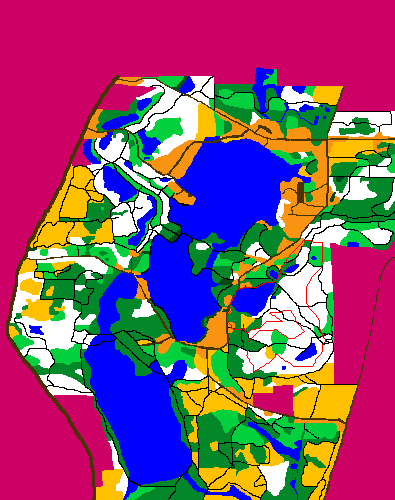
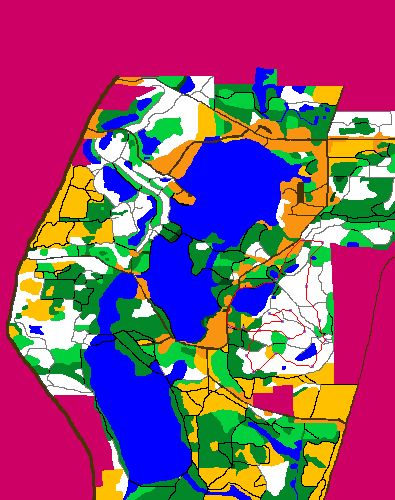
Finished but with comments

diff --git a/lab1/lab1.py b/lab1/lab1.py
@@ -1,11 +1,11 @@
 import queue
-from PIL import Image
-from PIL import ImageDraw
+from PIL import Image, ImageDraw
 import enum
 import sys
 import math
 
 
+# class of enums for terrain rgb values
 class Terrain(enum.Enum):
     Open_Land = (248, 148, 18, 255)
     Rough_Meadow = (255, 192, 0, 255)
@@ -19,13 +19,19 @@ class Terrain(enum.Enum):
     Out_of_Bounds = (205, 0, 101, 255)
     Ice = (217, 251, 255, 255)
     Mud = (173, 127, 0, 255)
+    Leaf_Trail = (122, 122, 122, 255)
+    Leaf_Road = (65, 65, 65, 255)
 
 
+# class of enums for constants used in the program
 class Constants(enum.Enum):
     xScale = 10.29
     yScale = 7.55
+    IceLimit = 7
+    MudLimit = 15
 
 
+# class Node for A* and BFS searching
 class Node:
 
     def __init__(self, parent=None, position=None):
@@ -78,12 +84,19 @@ def check_modifier(rgb_color):
     # same as ice
     elif rgb_color == Terrain.Mud.value:
         return 0.45
+    # there's annoying leaves on the road - 90%
+    elif rgb_color == Terrain.Leaf_Road.value:
+        return 0.9
+    # there's annoying leaves on the footpath - 80%
+    elif rgb_color == Terrain.Leaf_Trail.value:
+        return 0.8
     # out of bounds - 0%
     else:
         return 0.0
 
 
 # function to store elevation in a 2d array
+# stored in YX orientation
 def store_elevation(fp):
     wfile = open(fp, 'r')
     elevation = list()
@@ -111,11 +124,15 @@ def store_waypoints(fp):
 
 
 # function to add altercations to the map based on season
-def seasons(image, season, elevation, modifier):
+def seasons(image, season, elevation):
+    # no change for summer
     if season == "summer":
         return image
+
+    # draw module for the image
     draw = ImageDraw.Draw(image)
 
+    # 2d array of visited cells for BFS
     visited = list()
     for i in range(395):
         temp = list()
@@ -123,21 +140,29 @@ def seasons(image, season, elevation, modifier):
             temp.append(False)
         visited.append(temp)
 
+    # queue for BFS
     reached_nodes = queue.Queue()
 
+    # check every pixel
     for x in range(395):
         for y in range(500):
+            # if encountered, skip
             if visited[x][y]:
                 continue
+
             rgb = image.getpixel((x, y))
+
+            # winter BFS, search for land and find all water within 7 units
             if season == "winter":
                 if not check_modifier(rgb) == 0.3:
                     new_node = Node(None, (x, y))
                     new_node.distance = 0
                     reached_nodes.put(new_node)
                     visited[x][y] = True
+                    # Winter BFS
                     while not reached_nodes.empty():
                         s = reached_nodes.get()
+                        # check all possible children
                         for new_position in [(-1, 0), (0, 1), (1, 0), (0, -1)]:
 
                             xPos = new_position[0] + s.position[0]
@@ -155,7 +180,7 @@ def seasons(image, season, elevation, modifier):
                             if not check_modifier(rgb) == 0.3 or rgb == Terrain.Out_of_Bounds.value:
                                 continue
 
-                            if s.distance == 7:
+                            if s.distance == Constants.IceLimit.value:
                                 continue
 
                             new_node = Node(None, (xPos, yPos))
@@ -163,87 +188,104 @@ def seasons(image, season, elevation, modifier):
                             reached_nodes.put(new_node)
                             visited[xPos][yPos] = True
                             draw.point(new_node.position, fill=Terrain.Ice.value)
-
+            # During fall, find all path adjacent to easy forest and change it to leaf trail
             elif season == "fall":
                 if rgb == Terrain.Easy_Forest.value:
                     for new_position in [(-1, 0), (0, 1), (1, 0), (0, -1), (1, 1), (-1, -1), (-1, 1), (1, -1)]:
-
+                        # check x positions
                         xPos = new_position[0] + x
                         if xPos < 0 or xPos >= 395:
                             continue
-
+                        # check y positions
                         yPos = new_position[1] + y
                         if yPos < 0 or yPos >= 500:
                             continue
-
+                        # check if it is just another easy forest
                         rgb = image.getpixel((xPos, yPos))
                         if rgb == Terrain.Easy_Forest.value:
                             continue
-
-                        modifier[xPos][yPos] = 0.5
-
+                        # adjust the terrain for fallen leaves
+                        if rgb == Terrain.Foot_path.value:
+                            draw.point((xPos, yPos), fill=Terrain.Leaf_Trail.value)
+                        elif rgb == Terrain.Paved_Road.value:
+                            draw.point((xPos, yPos), fill=Terrain.Leaf_Road.value)
+            # spring BFS, search for water and find all land within 15 units with only a 1 in change of elevation
             elif season == "spring":
                 if check_modifier(rgb) == 0.3:
                     new_node = Node(None, (x, y))
                     new_node.distance = 0
                     reached_nodes.put(new_node)
                     visited[x][y] = True
+                    # spring BFS
                     while not reached_nodes.empty():
                         s = reached_nodes.get()
                         for new_position in [(-1, 0), (0, 1), (1, 0), (0, -1)]:
-
+                            # x bound check
                             xPos = new_position[0] + s.position[0]
                             if xPos < 0 or xPos >= 395:
                                 continue
-
+                            # y bound check
                             yPos = new_position[1] + s.position[1]
                             if yPos < 0 or yPos >= 500:
                                 continue
-
+                            # visited check
                             if visited[xPos][yPos]:
                                 continue
-
+                            # check for water or terrain
                             rgb = image.getpixel((xPos, yPos))
                             if check_modifier(rgb) == 0.3 or rgb == Terrain.Out_of_Bounds.value:
                                 continue
-
-                            if s.distance == 15:
+                            # check for max distance
+                            if s.distance == Constants.MudLimit.value:
                                 continue
-
+                            # check for change in elevation
                             if elevation[yPos][xPos] - elevation[s.position[1]][s.position[0]] > 1:
                                 continue
 
+                            # add cell to the queue and set it to mud
                             new_node = Node(None, (xPos, yPos))
                             new_node.distance = s.distance + 1
                             reached_nodes.put(new_node)
                             visited[xPos][yPos] = True
                             draw.point(new_node.position, fill=Terrain.Mud.value)
 
-    return image, modifier
+    return image
 
 
 # function to calculate the g cost for heuristic
-def calculate_g_cost(image, point1, point2, elevation, modifier):
+def calculate_g_cost(image, point1, point2, elevation):
+    # terrain modifiers
     rgb_one = image.getpixel((point1[0], point1[1]))
     rgb_two = image.getpixel((point2[0], point2[1]))
-    mod1 = check_modifier(rgb_one) * modifier[point1[0]][point1[1]]
-    mod2 = check_modifier(rgb_two) * modifier[point2[0]][point2[1]]
+    mod1 = check_modifier(rgb_one)
+    mod2 = check_modifier(rgb_two)
 
-    deltaX = Constants.xScale.value ** 2
-    deltaY = Constants.yScale.value ** 2
-    deltaZ = (elevation[point2[1]][point2[0]] - elevation[point1[1]][point1[0]]) ** 2
+    # change in x and y
+    deltaX = (Constants.xScale.value ** 2)
+    deltaY = (Constants.yScale.value ** 2)
+    temp = (elevation[point2[1]][point2[0]] - elevation[point1[1]][point1[0]])
+
+    # hill climbing scale, uphill or downhill change has a 20% effect on cost
+    hill_scale = 1.0
+    if temp < 0:
+        hill_scale = 1.2
+    elif temp > 0:
+        hill_scale = 0.8
+
+    # change in z
+    deltaZ = temp ** 2
 
     if point1[0] == point2[0]:
         temp = math.sqrt((deltaY + deltaZ)) / 2
-        return (temp / mod1) + (temp / mod2)
+        return ((temp / mod1) + (temp / mod2)) / hill_scale
 
     elif point1[1] == point2[1]:
         temp = math.sqrt((deltaX + deltaZ)) / 2
-        return (temp / mod1) + (temp / mod2)
+        return ((temp / mod1) + (temp / mod2)) / hill_scale
 
     else:
         temp = math.sqrt((deltaX + deltaY + deltaZ)) / 2
-        return (temp / mod1) + (temp / mod2)
+        return ((temp / mod1) + (temp / mod2)) / hill_scale
 
 
 # function to calculate the h cost for heuristic
@@ -254,29 +296,34 @@ def calculate_h_cost(child, end):
     return math.sqrt((deltaX ** 2) + (deltaY ** 2))
 
 
+# function to perform the A* algorithm to find the path between points
 def traversal_loop(image, waypoints, elevation, fileName, season):
-
-    modifier = list()
-    for j in range(395):
-        temp = list()
-        for k in range(500):
-            temp.append(1.0)
-        modifier.append(temp)
-
+    # adjust the original image for seasons
     ori = Image.open(image)
-    ori, modifier = seasons(ori, season, elevation, modifier)
+    ori = seasons(ori, season, elevation)
+    # make a copy to save the alterations and path
     im = ori.copy()
     draw = ImageDraw.Draw(im)
 
+    # priority queue for a*
     open_nodes = queue.PriorityQueue()
 
+    # make the first node at the first waypoint
     start = Node(None, (waypoints[0][0], waypoints[0][1]))
     start.f = start.g = start.h = 0
+    # remove the first waypoint
     waypoints.pop(0)
 
+    # move the starting node to the queue
     open_nodes.put(start)
 
+    # draw the first waypoint
+    shape = [start.position, (100, 10)]
+    draw.ellipse(shape, fill=(122, 122, 255, 255))
+
+    # while there are waypoints perform an A* search to the next one
     for i in waypoints:
+        # visited array
         points = list()
         for j in range(395):
             temp = list()
@@ -284,52 +331,60 @@ def traversal_loop(image, waypoints, elevation, fileName, season):
                 temp.append(False)
             points.append(temp)
 
+        # end node created and drawn
         end = Node(None, i)
+        shape = [(end.position[0]-1, end.position[1]-1), (end.position[0]+1, end.position[1]+1)]
+        draw.ellipse(shape, fill=(122, 122, 255, 255))
 
+        # set current = to start and begin a* until you find the end node
         current = start
         while not current == end:
-
+            # set current to smallest f cost node in the queue
             current = open_nodes.get()
 
-            children = list()
+            # create possible children for the current node
             for new_position in [(-1, 0), (0, 1), (1, 0), (0, -1), (1, 1), (-1, -1), (1, -1), (-1, 1)]:
-
+                # x bound check
                 xPos = new_position[0] + current.position[0]
                 if xPos < 0 or xPos >= 395:
                     continue
-
+                # y bound check
                 yPos = new_position[1] + current.position[1]
                 if yPos < 0 or yPos >= 500:
                     continue
-
+                # visited check
                 if points[xPos][yPos]:
                     continue
-
+                # out of bound or impassable check
                 rgb = ori.getpixel((xPos, yPos))
                 if check_modifier(rgb) == 0.0:
                     continue
-
+                # create new node at current position + offset
                 new_node = Node(current, (xPos, yPos))
-                children.append(new_node)
 
-            for child in children:
+                # computes its values
+                new_node.g = calculate_g_cost(ori, current.position, new_node.position, elevation) + current.g
+                new_node.h = calculate_h_cost(new_node.position, end.position)
+                new_node.f = new_node.g + new_node.h
 
-                child.g = calculate_g_cost(ori, current.position, child.position, elevation, modifier) + current.g
-                child.h = calculate_h_cost(child.position, end.position)
-                child.f = child.g + child.h
+                # add child nodes to open_nodes and set it's position to visited
+                open_nodes.put(new_node)
+                points[new_node.position[0]][new_node.position[1]] = True
 
-                open_nodes.put(child)
-                points[child.position[0]][child.position[1]] = True
-
+        # create a new start node at the end waypoint for the next iteration
         start = Node(None, end.position)
         start.f = start.g = start.h = 0
 
+        # reset the queue and add the new start
         open_nodes = queue.PriorityQueue()
         open_nodes.put(start)
 
+        # follow the lineage of the current node and draw a line along the positions
         while current is not None:
             draw.point(current.position, fill=(255, 0, 0, 255))
             current = current.parent
+
+    # save the altered image and show
     im.save(fileName)
     im.show()
 
